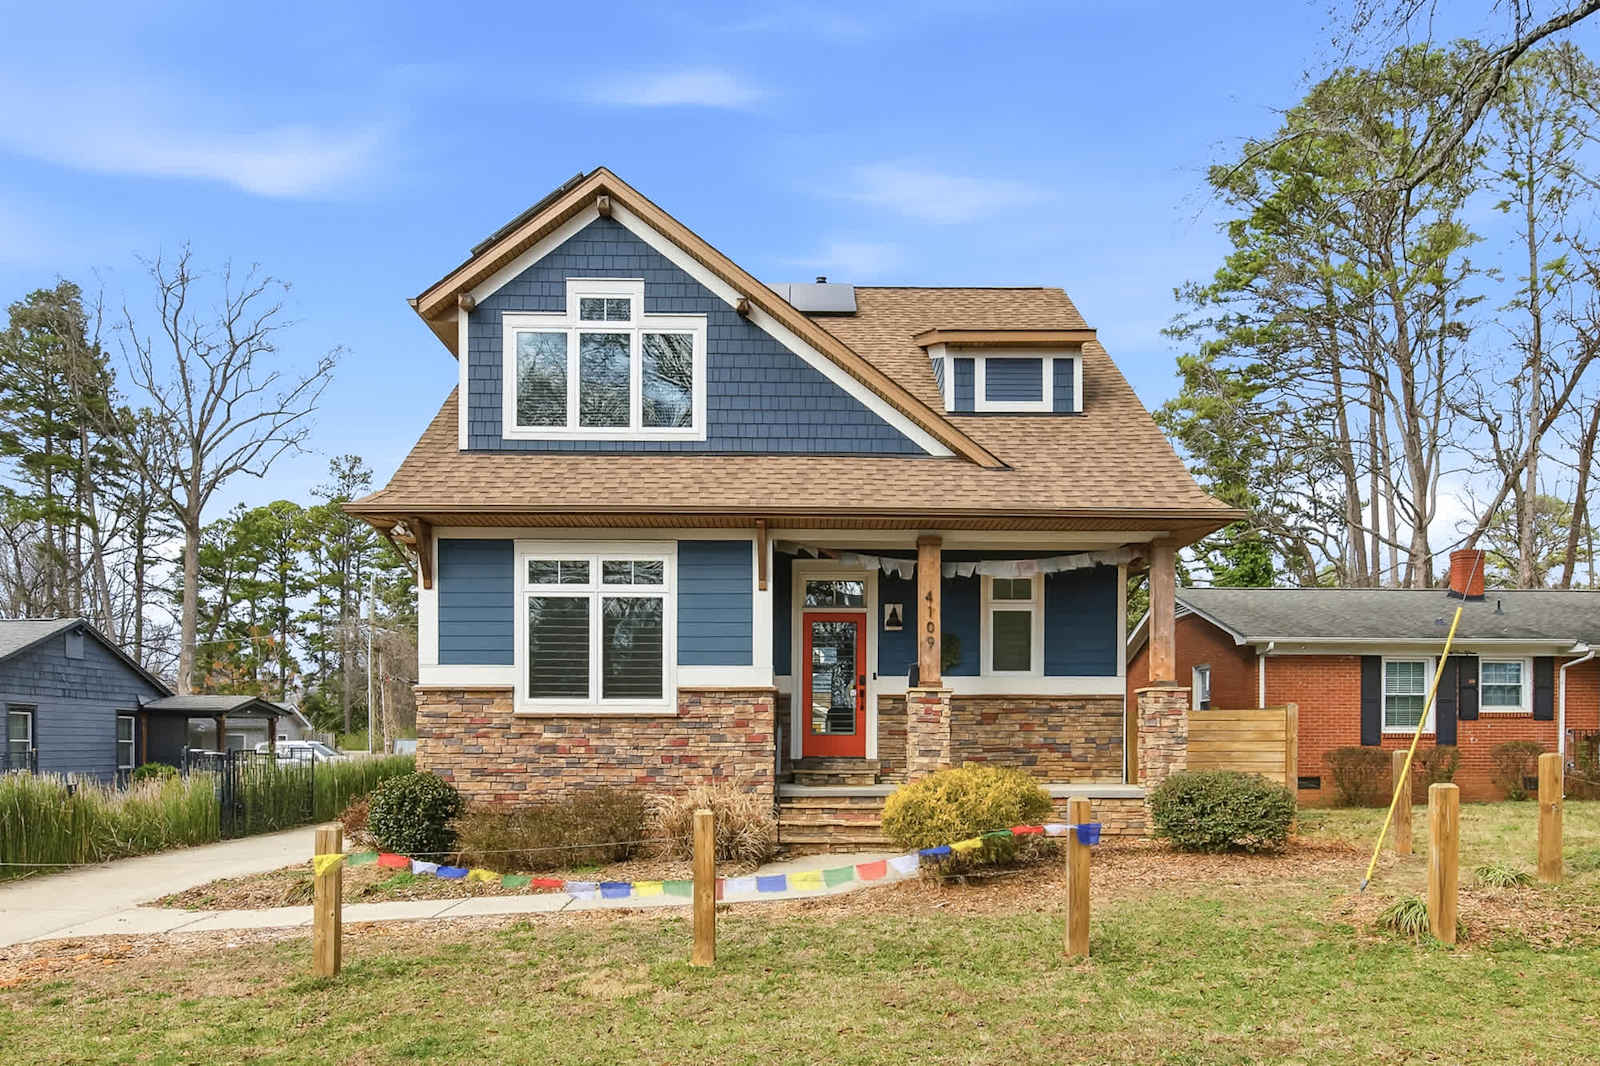
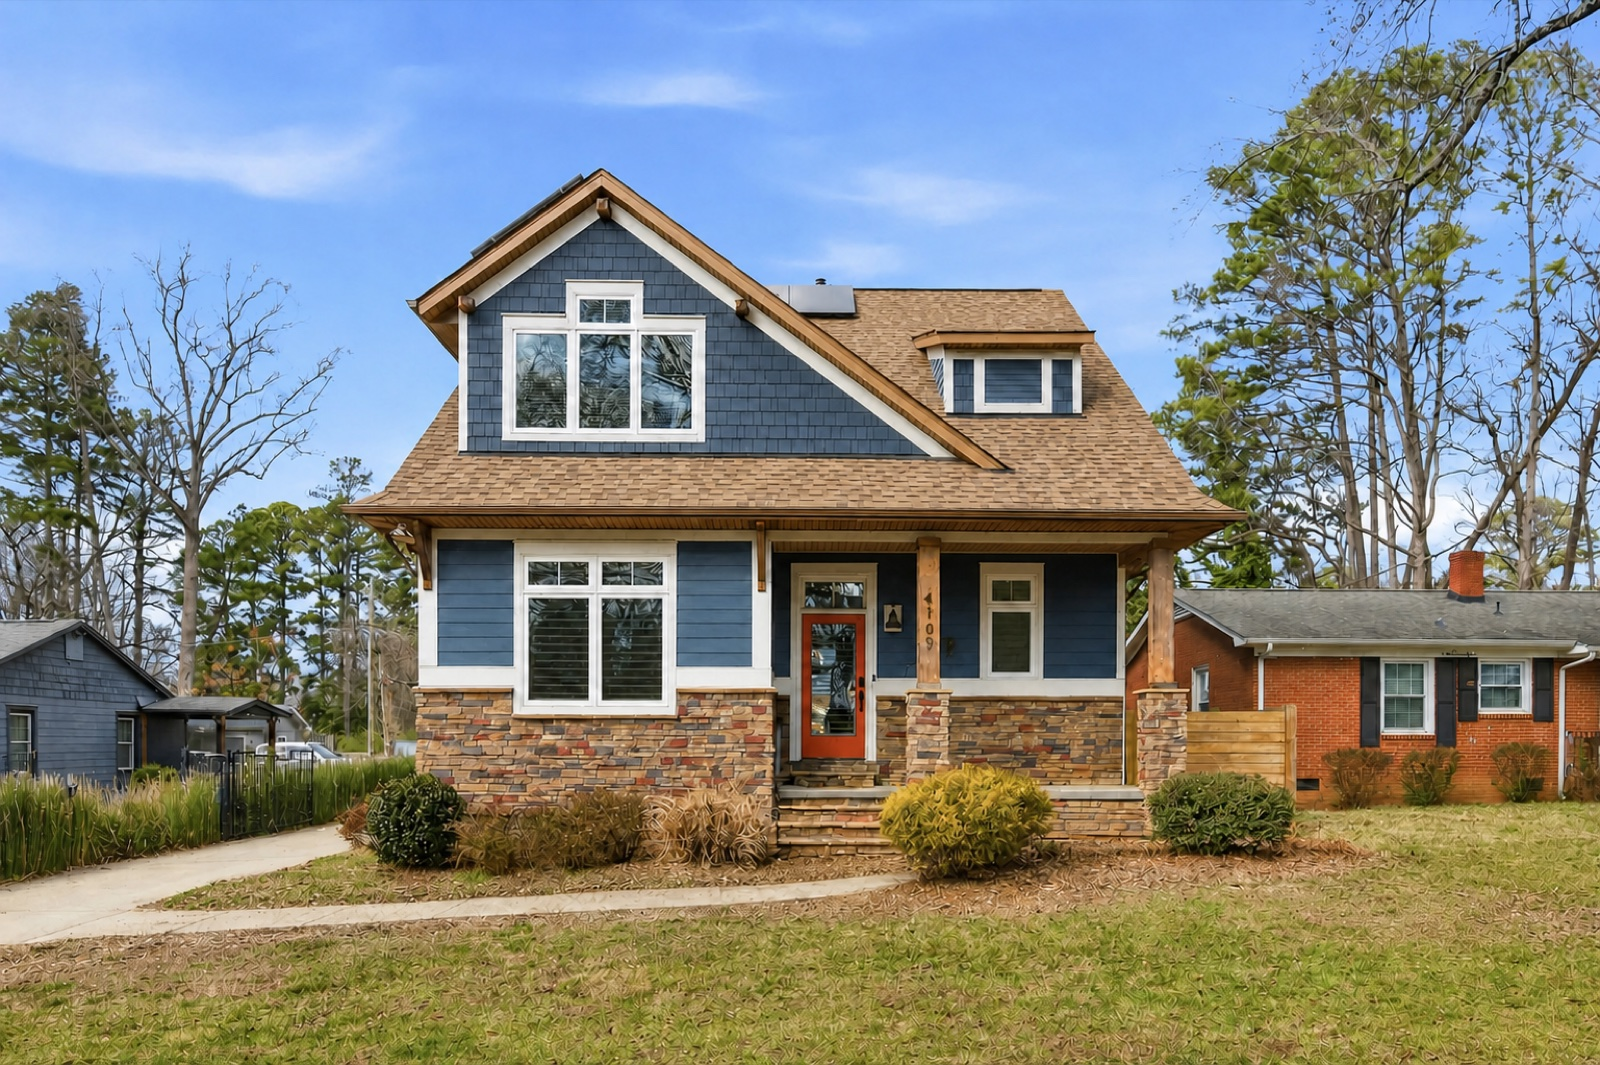
Clean hero photo (remove yard clutter), boost cover subtitle contrast, add OG/SEO meta
- Hero exterior: removed leaning pole, garden stakes, prayer flags and porch
  bunting via gpt-image-2 edit (house/colors/lighting unchanged)
- masthead subtitle: stronger text-shadow + deeper top scrim for legibility
- canonical + Open Graph tags for blueskyvillagerentals.com

Claude-Session: https://claude.ai/code/session_016hrjzD3DXc2CyCLQztbMVw

diff --git a/07-cover-story.html b/07-cover-story.html
@@ -6,6 +6,12 @@
 <meta name="theme-color" content="#F8F4EC">
 <title>Blue Sky Village · Vacation Rental Management, the Carolinas &amp; Georgia</title>
 <meta name="description" content="Family-run vacation rental management across North Carolina, South Carolina and Georgia since 2013. We list it, price it, clean it, and look after your guests.">
+<link rel="canonical" href="https://blueskyvillagerentals.com/">
+<meta property="og:type" content="website">
+<meta property="og:title" content="Blue Sky Village · Vacation Rental Management, the Carolinas &amp; Georgia">
+<meta property="og:description" content="Family-run vacation rental management since 2013. We list it, price it, clean it, and look after your guests.">
+<meta property="og:url" content="https://blueskyvillagerentals.com/">
+<meta property="og:image" content="https://blueskyvillagerentals.com/assets/photos/home-exterior-craftsman.jpg">
 <link rel="icon" type="image/png" href="assets/favicon.png">
 
 <!-- ============ SHARED FOUNDATION (§11, verbatim) ============ -->
@@ -109,7 +115,7 @@ img{max-width:100%; height:auto; display:block}
 @keyframes coverDrift{ to{ transform:scale(1.0) } }
 /* readability scrims - top for masthead, bottom for cover line */
 .cover::before{content:""; position:absolute; inset:0; z-index:-1; pointer-events:none;
-  background:linear-gradient(to bottom, rgba(31,43,52,.42) 0%, rgba(31,43,52,0) 26%, rgba(31,43,52,0) 52%, rgba(31,43,52,.62) 100%)}
+  background:linear-gradient(to bottom, rgba(31,43,52,.46) 0%, rgba(31,43,52,0) 34%, rgba(31,43,52,0) 52%, rgba(31,43,52,.62) 100%)}
 
 /* masthead block at top */
 .masthead{padding:clamp(74px,11vh,120px) clamp(20px,5vw,48px) 0; text-align:center; position:relative; z-index:2}
@@ -118,7 +124,7 @@ img{max-width:100%; height:auto; display:block}
   text-shadow:0 2px 30px rgba(31,43,52,.45)}
 .masthead__rule{display:flex; align-items:center; justify-content:center; margin-top:20px}
 .masthead__issue{font-family:var(--font-body); font-size:clamp(.92rem,1.8vw,1.08rem); letter-spacing:0;
-  color:rgba(241,236,224,.92); white-space:nowrap}
+  color:rgba(241,236,224,.96); white-space:nowrap; text-shadow:0 1px 4px rgba(31,43,52,.55), 0 2px 18px rgba(31,43,52,.45)}
 
 /* settle-in animation for masthead pieces */
 .set{opacity:0; transform:translateY(16px)}
